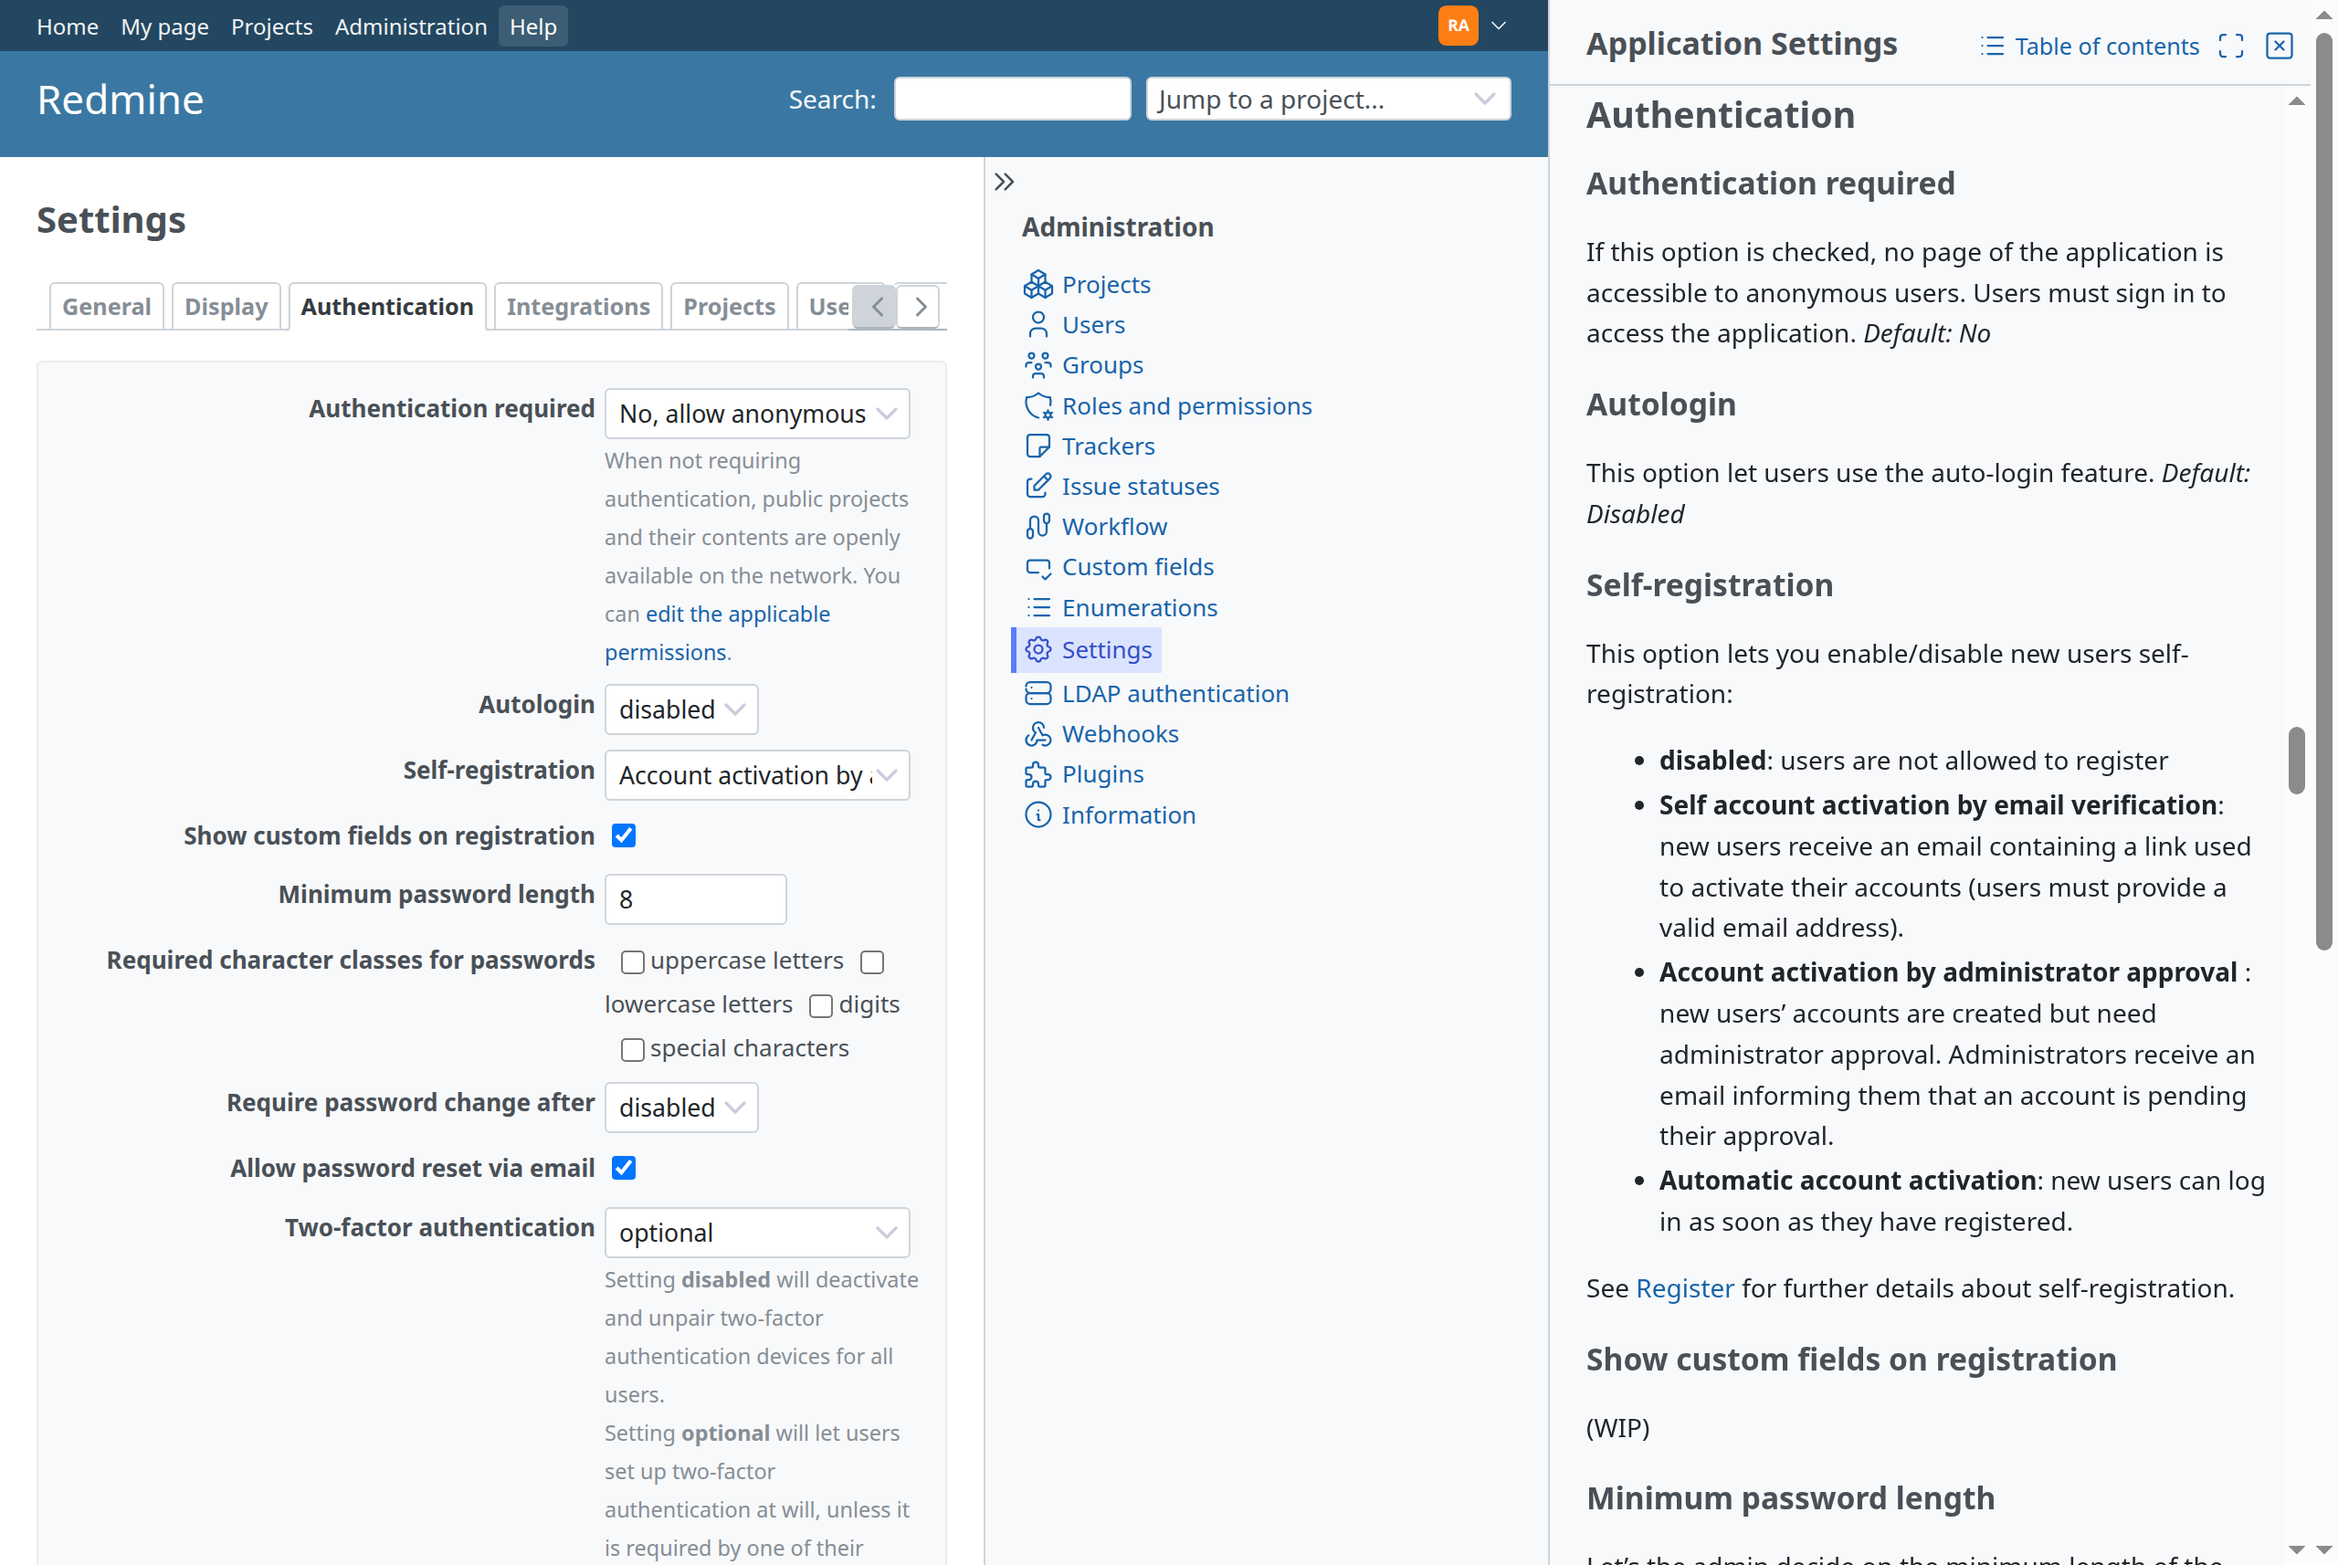
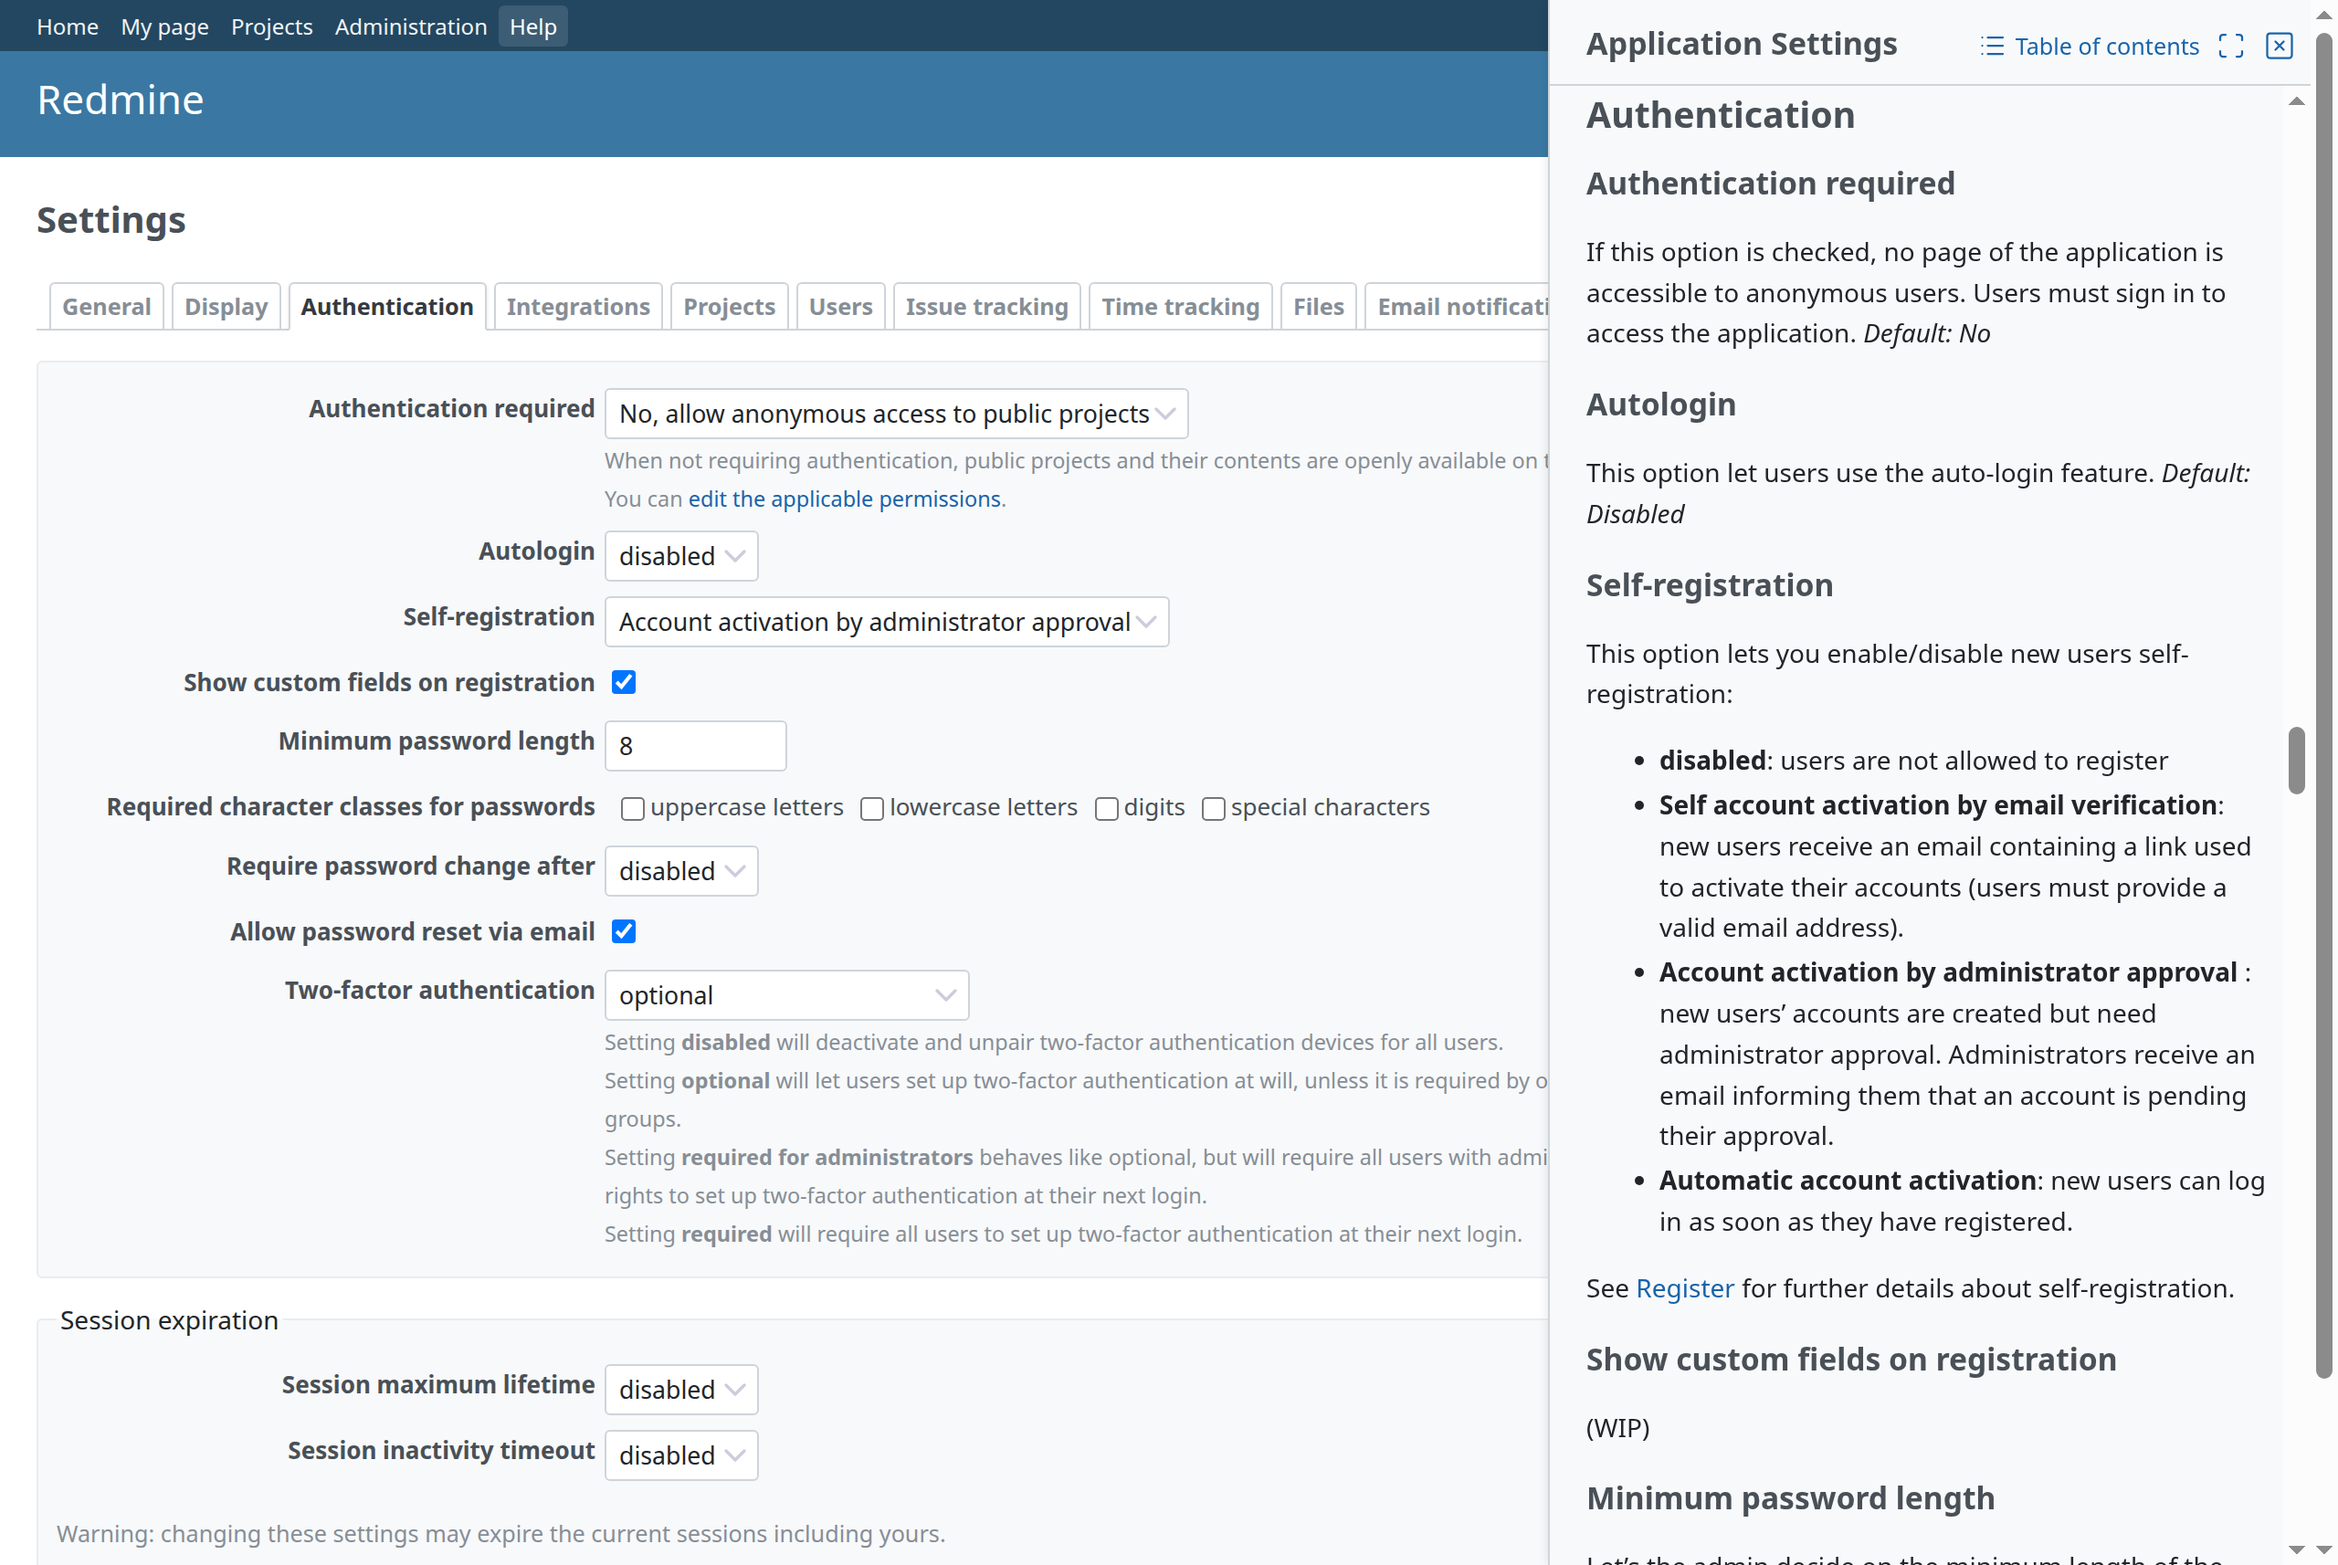
Take the Japanese screenshots with Japanese demo data
ScreenshotCase renames the fixtures' records for each language from
test/screenshots/data/<lang>.yml, as redmine-guide's screenshots do, and
ja.yml uses the same names as redmine-guide's demo data: Redmine 7.0.3's
Japanese default data for trackers, statuses, priorities and roles,
Japanese project, issue and custom field names, fictional Japanese user
names, and family name first. English keeps Redmine's test data.

The panel now opens the new issue form at Adding a new issue (the map of
redmine-guide) and is laid over the page.

diff --git a/test/screenshots/screenshot_case.rb b/test/screenshots/screenshot_case.rb
@@ -19,15 +19,28 @@ class ScreenshotCase < ApplicationSystemTestCase
   end
 
   # Runs the block once per language, logged in as the administrator with
-  # that language.
+  # that language, with the demo data of the language.
   def each_language
     LANGUAGES.each_key do |language|
       User.find(1).update!(language: language)
+      localize_data(language)
       Capybara.reset_sessions!
       page.driver.browser.manage.window.resize_to(1280, 900)
       log_user('admin', 'admin')
       yield language
     end
+  end
+
+  # The demo data of the language (test/screenshots/data/<lang>.yml): the
+  # fixtures' records renamed as a team using that language would name them,
+  # as redmine-guide's screenshots do. English keeps the fixtures.
+  def localize_data(language)
+    file = File.join(__dir__, 'data', "#{language}.yml")
+    data = File.exist?(file) ? YAML.safe_load_file(file) : {}
+    (data['records'] || {}).each do |model, records|
+      records.each { |id, attributes| model.constantize.find(id).update_columns(attributes) }
+    end
+    (data['settings'] || {}).each { |name, value| Setting.send(:"#{name}=", value) }
   end
 
   # Hides the siblings after the element, to keep a screenshot to the part

diff --git a/test/screenshots/screens.rb b/test/screenshots/screens.rb
@@ -4,7 +4,7 @@ require_relative 'screenshot_case'
 
 # The screens of docs/README.md, with the guide of redmine-guide
 # (REDMINE_HELP_GUIDE_PATH, set by bin/screenshots): the side panel next to
-# the new issue form and next to a tab of Administration › Settings, and the
+# the new issue form and over a tab of Administration › Settings, and the
 # help page of the issue list.
 class RedmineHelpScreenshotsTest < ScreenshotCase
   def test_screens
